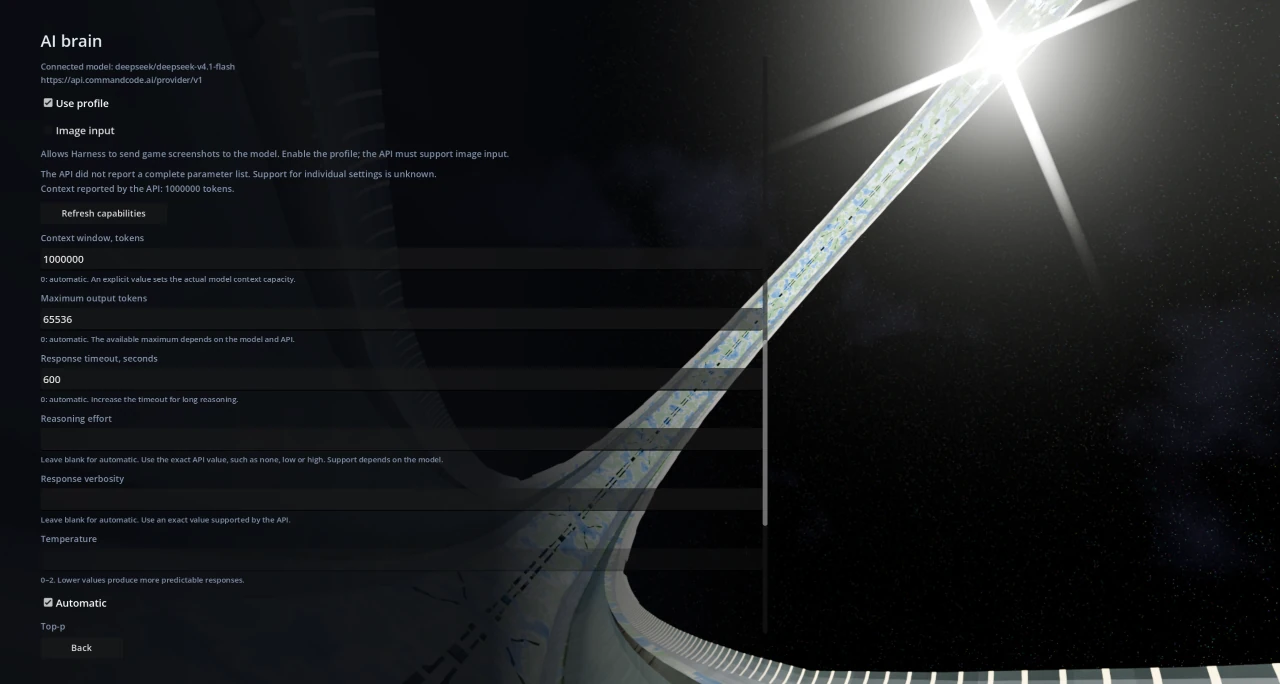
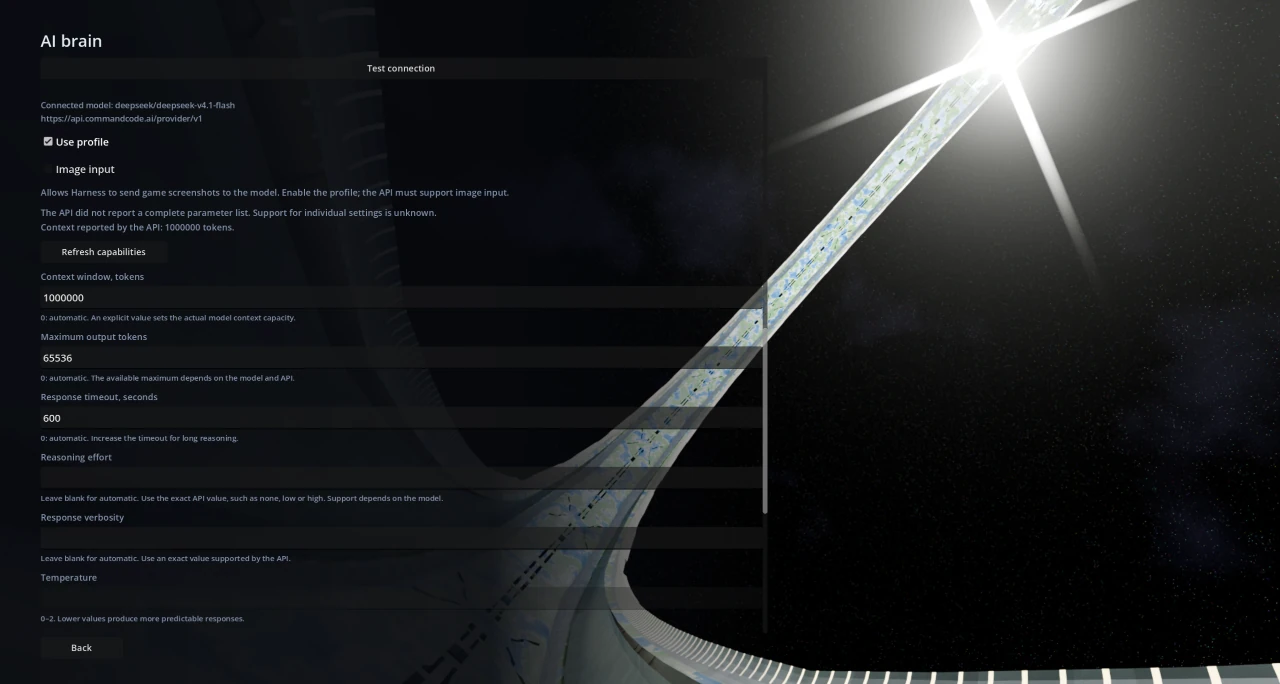
Use native game localization with English fallback and verify Pax Universe 0.31.5

diff --git a/README.md b/README.md
@@ -17,7 +17,7 @@
 
 ### Вручную из GitHub
 
-1. Скачайте `ai_tuning-2.3.0.zip` из раздела **Releases** и закройте игру.
+1. Скачайте `ai_tuning-2.3.1.zip` из раздела **Releases** и закройте игру.
 2. Откройте **Лаунчер → Моды → Папка модов** и поместите туда ZIP целиком. Распаковывать архив не нужно. На Windows пользовательская папка обычно находится в `%APPDATA%\Pax Universe\mods`.
 3. Запустите игру и включите **«Тонкая настройка ИИ»** в разделе **Моды**.
 
@@ -45,7 +45,7 @@
 
 Снимки Harness доступны при включённых «Использовать профиль» и «Изображения на вход» для выбранного адреса и модели. Флаг сам по себе не добавляет зрение текстовой модели.
 
-Мод работает самостоятельно и вместе с Pax Harness 1.10.0+. Версия мода: **2.3.0**. Проверенная версия игры: **Pax Universe 0.31.4**.
+Мод работает самостоятельно и вместе с Pax Harness 1.10.0+. Версия мода: **2.3.1**. Проверенная версия игры: **Pax Universe 0.31.5**.
 
 ## В игре
 
@@ -57,6 +57,6 @@
 
 ## Языки / Languages
 
-Русский и английский. Язык интерфейса мода следует языку игры и меняется вместе с ним; отдельного переключателя нет. Текст переписки, пользовательские названия и введённые данные не переводятся.
+Русский и английский. Язык интерфейса мода следует языку игры и меняется вместе с ним; отдельного переключателя нет. Для других языков игры используется английский. Текст переписки, пользовательские названия и введённые данные не переводятся.
 
 Russian and English. The mod follows the game language, including open windows. There is no separate language switch. Conversation text, custom names and entered data remain unchanged.

diff --git a/docs/README.en.md b/docs/README.en.md
@@ -1,12 +1,12 @@
 # Advanced AI settings
 
-Per-endpoint and per-model generation profiles for **Pax Universe 0.31.4**.
+Per-endpoint and per-model generation profiles for **Pax Universe 0.31.5**.
 
 [Русское описание](../README.md)
 
 ## Installation
 
-Install **Advanced AI settings** from the launcher's official Workshop and enable it under Mods. Alternatively, close the game and place `ai_tuning-2.3.0.zip` from GitHub Releases in the game's user mods folder without extracting it. Find that folder through Launcher → Mods → Mods folder; on Windows it is normally `%APPDATA%\Pax Universe\mods`.
+Install **Advanced AI settings** from the launcher's official Workshop and enable it under Mods. Alternatively, close the game and place `ai_tuning-2.3.1.zip` from GitHub Releases in the game's user mods folder without extracting it. Find that folder through Launcher → Mods → Mods folder; on Windows it is normally `%APPDATA%\Pax Universe\mods`.
 
 Enable the mod and approve code execution through the normal game prompt if requested. Keep only one installed copy. Replace an older manual installation while the game is closed; Workshop copies update through the launcher.
 
@@ -39,3 +39,5 @@ Image input requires both Use profile and Image input for the selected endpoint/
 Full Russian and English interfaces follow the game's selected language, including open profile windows. Switching language preserves drafts and profile values. API parameter identifiers remain unchanged.
 
 Entry: `src/main.gd`; profile policy and identity handling are under `src/domain/`, UI adapters under `src/ui/`, and translations under `data/lang/`. The fork integration is separate from the installable ZIP.
+
+The interface follows the game language: Russian for RU, English for EN and all other game languages.

diff --git a/integrations/game-fork/README-RU.md b/integrations/game-fork/README-RU.md
@@ -14,6 +14,6 @@
 
 Поддержаны стандартные параметры Chat Completions, Responses, Messages и Gemini. Специальные параметры генерации Ollama требуют отдельного отображения; контекст и автоматический режим доступны.
 
-Эта папка относится к исходникам форка. Устанавливаемый мод находится в отдельном архиве **`ai_tuning-2.3.0.zip`** в Releases.
+Эта папка относится к исходникам форка. Устанавливаемый мод находится в отдельном архиве **`ai_tuning-2.3.1.zip`** в Releases.
 
 RU / EN: язык панели следует языку игры; профили и введённые значения сохраняются. / The panel follows the game language; profiles and entered values are preserved.

diff --git a/integrations/game-fork/README.md b/integrations/game-fork/README.md
@@ -14,7 +14,7 @@ Profiles use a separate `ai_tuning_profiles` section in native settings. Output 
 
 Standard Chat Completions, Responses, Messages and Gemini generation fields are mapped. Ollama-specific generation options need separate mapping; context and automatic settings remain available.
 
-This directory belongs in a fork's source tree. The installable mod is the separate **`ai_tuning-2.3.0.zip`** asset in Releases.
+This directory belongs in a fork's source tree. The installable mod is the separate **`ai_tuning-2.3.1.zip`** asset in Releases.
 
 [По-русски](README-RU.md)
 
